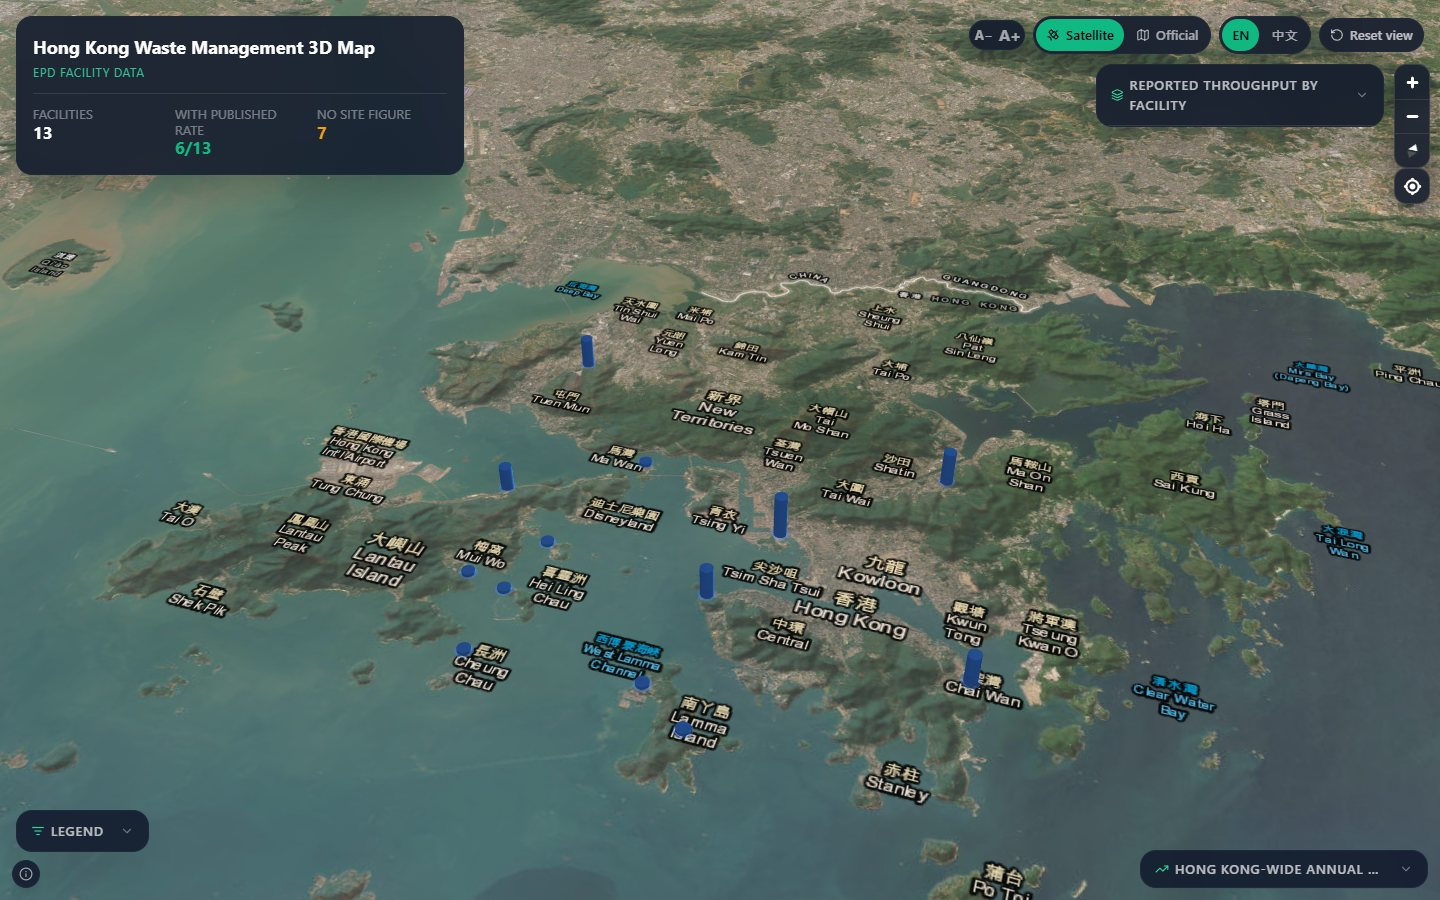
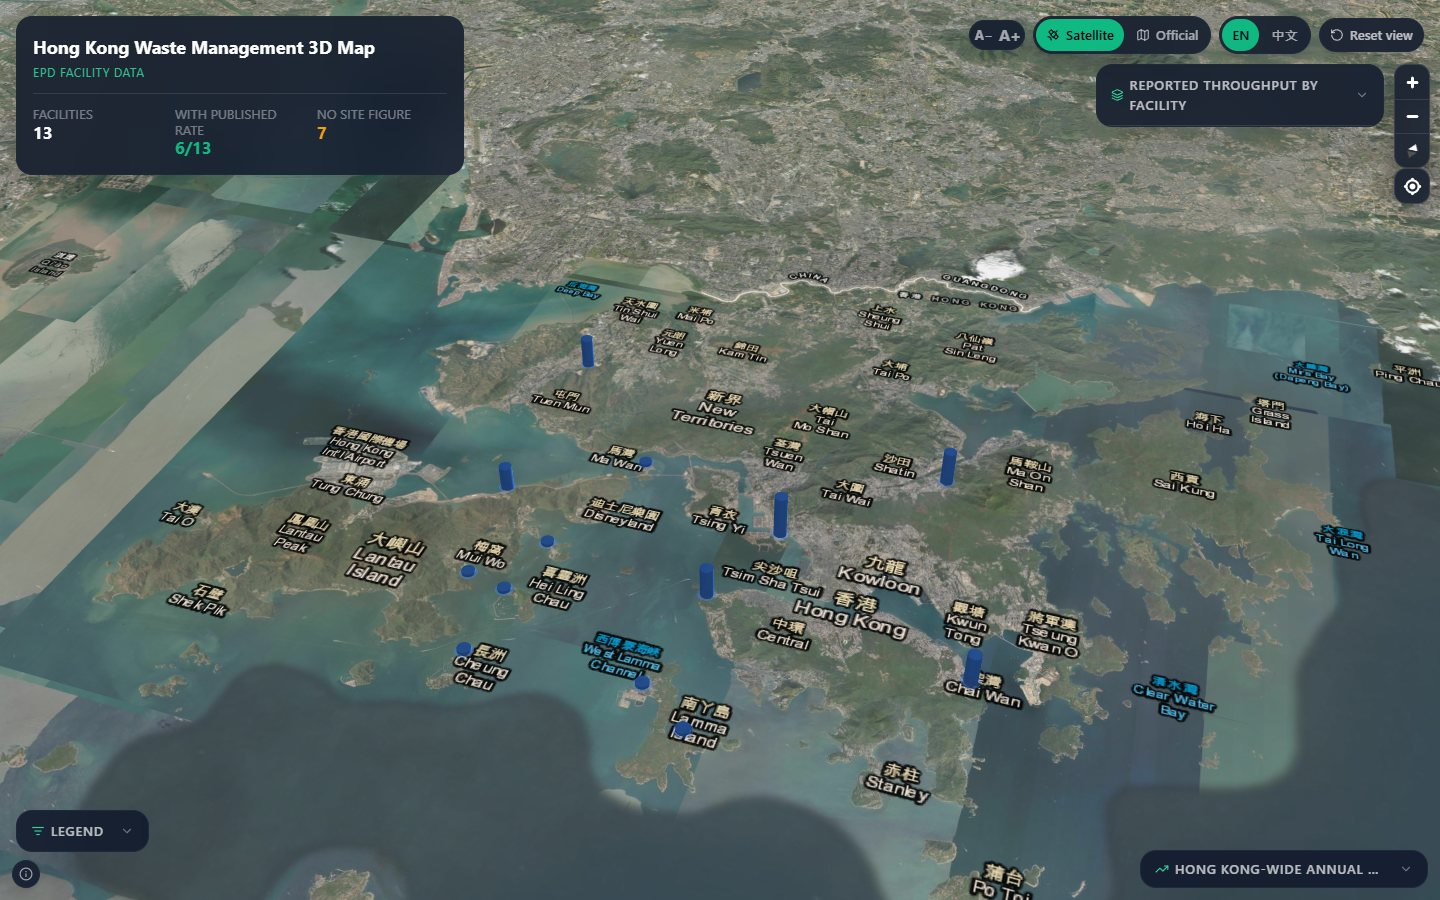
Fix the blurry basemap: pull Esri imagery one zoom level deeper
The map looked blurry because Esri's World Imagery over Hong Kong is two
different datasets. z11-z12 are a coarse mosaic — a 12KB tile for the whole
harbour, visibly mushy with tile-aligned seams — while z13 and deeper is
genuine high-resolution aerial photography. The opening view sat exactly on
that boundary and pulled z11/z12.

The imagery source now declares a 128px tileSize while the service still
serves 256px images. MapLibre chooses the tile zoom from the declared tileSize,
so halving it makes the map ask one level deeper (z13/z14 at the same camera)
and draw each 256px image into half the screen area — a 2x supersampled
basemap. Verified with 1:1 crops over Kowloon. It costs roughly 3x the tile
requests (1.73MB -> 5.46MB for the opening view, then browser-cached), which is
worth it for the style's whole purpose. Only the imagery is nudged; the label
layer keeps its own zoom.

The black-point and contrast fix for the z10/z11 near-black patches is now
zoom-interpolated and fades to zero by z12.5. It was itself part of the
problem: lifting the black point and flattening contrast on good imagery is
exactly what makes it read as washed out and soft, and every zoom the app now
opens at is past that point.

Also probed and rejected the Lands Department's own `imagery` layer — official
Hong Kong aerial photography, sharper still, but PNG-only at ~180KB a tile,
around 20MB per view.

verify-browser.mjs asserts the opening view pulls imagery at z13 or deeper so
[…]

diff --git a/src/components/map/mapStyles.ts b/src/components/map/mapStyles.ts
@@ -103,7 +103,27 @@ export function satelliteStyle(): StyleSpecification {
         tiles: [
           "https://server.arcgisonline.com/ArcGIS/rest/services/World_Imagery/MapServer/tile/{z}/{y}/{x}",
         ],
-        tileSize: 256,
+        /**
+         * Declared 128, though the service serves 256px images.
+         *
+         * Esri's World Imagery mosaic over Hong Kong is two different datasets:
+         * z11-z12 are a coarse, visibly mushy layer (a 12KB tile for the whole
+         * harbour), while z13 and deeper are genuine high-resolution aerial
+         * photography (the same area is crisp — individual buildings, piers and
+         * boats). The opening view sits right on that boundary and used to pull
+         * z11/z12, which is why the map read as blurry.
+         *
+         * MapLibre picks the tile zoom from the declared `tileSize`, so halving
+         * it makes the map ask for one level deeper — z13/z14 at the same
+         * camera — and draw each 256px image into half the screen area. The
+         * result is a 2x supersampled basemap: measurably sharper, at ~3x the
+         * tile requests (1.7 MB → 5.5 MB for the opening view, then cached).
+         * That trade is worth it here; the imagery is the whole point of the
+         * satellite style.
+         *
+         * Only the imagery is nudged — the label layer stays on its own zoom.
+         */
+        tileSize: 128,
         maxzoom: 19,
         attribution: ESRI_ATTRIBUTION,
       },
@@ -136,15 +156,17 @@ export function satelliteStyle(): StyleSpecification {
            *   z11  mean luminance 54.8, 18.6% near-black pixels
            *   z12  mean luminance 68-85, 0.1-0.9% near-black pixels
            *
-           * The default view renders z11 tiles, so those near-black patches read
-           * as large "shadows" across the map with tile-aligned edges. Raising
-           * the black point and easing contrast removes them at every zoom
-           * without washing the imagery out.
+           * Those near-black patches read as large "shadows" with tile-aligned
+           * edges, so the black point is raised and contrast eased to remove
+           * them. It has to fade out by z12.5, though: lifting the black point
+           * and flattening contrast on good imagery is exactly what makes it
+           * look washed out and soft, and every zoom the app now opens at is
+           * past that point. Keyed on camera zoom, not tile zoom.
            */
-          "raster-brightness-min": 0.16,
+          "raster-brightness-min": ["interpolate", ["linear"], ["zoom"], 10, 0.16, 12.5, 0],
           "raster-brightness-max": 1,
-          "raster-contrast": -0.15,
-          "raster-saturation": 0.05,
+          "raster-contrast": ["interpolate", ["linear"], ["zoom"], 10, -0.15, 12.5, 0],
+          "raster-saturation": ["interpolate", ["linear"], ["zoom"], 10, 0.05, 12.5, 0],
         },
       },
       {

diff --git a/README.md b/README.md
@@ -95,7 +95,10 @@ a matter of dropping its export into `data/` and re-running the ingest.
 - Two map styles, **no API keys required**: Esri World Imagery (default) and
   the Lands Department official map, whose labels switch language with the UI.
   Setting `NEXT_PUBLIC_MAPBOX_TOKEN` optionally upgrades the satellite slot to
-  Mapbox `satellite-streets-v12`.
+  Mapbox `satellite-streets-v12`. The imagery source declares a 128px tile size
+  so the map pulls one zoom level deeper than the camera — Esri's Hong Kong
+  mosaic is coarse at z11–z12 and real aerial photography from z13 — which
+  roughly triples the opening tile load for a visibly sharper basemap.
 - Category filter chips (All / Landfills / RTS / Parks) and a legend with
   per-category counts. Both drive the same state, so they can never disagree.
 - "Reported throughput by facility" ranking, highest first, with the seven OITF
